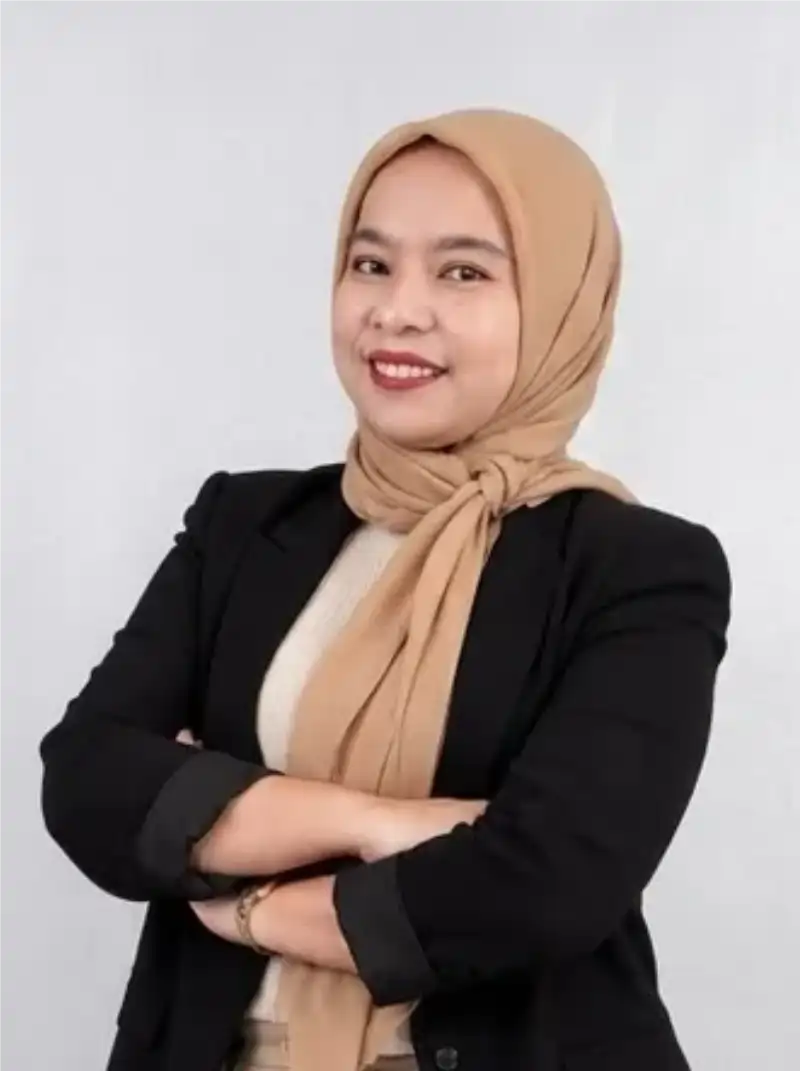
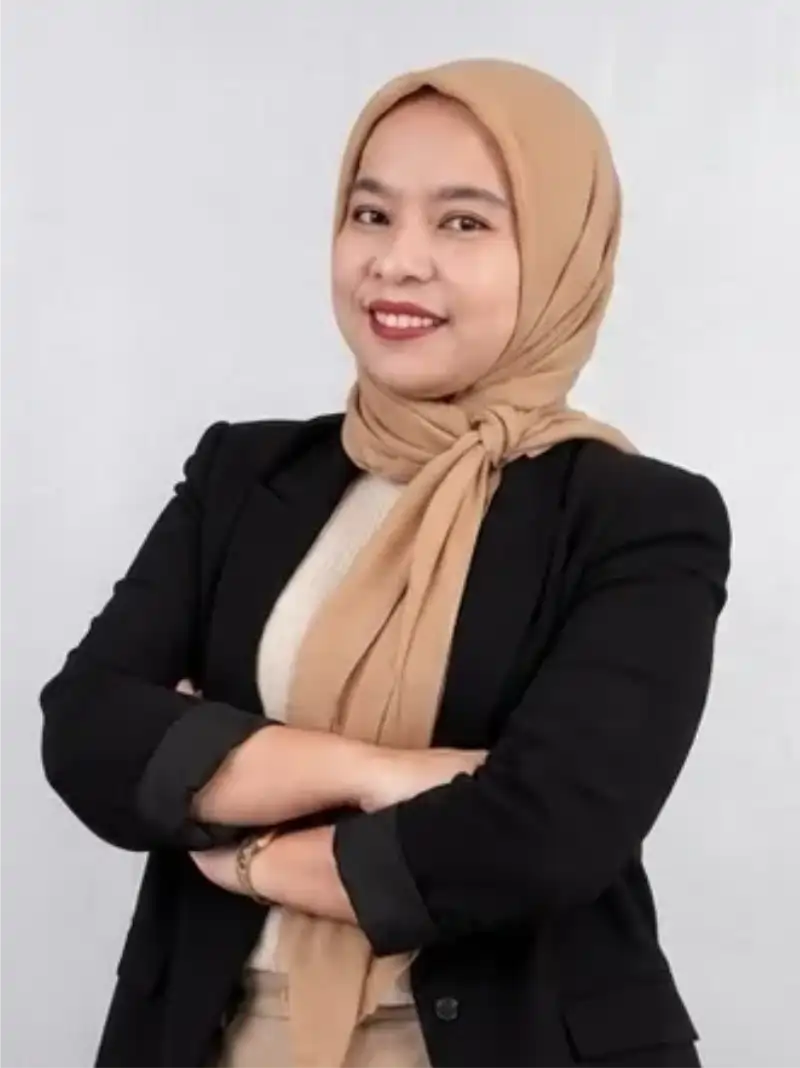
fixed foto founder dan bio

Changed region(s): [[0.0312, 0.0309, 0.9375, 1.0]]

diff --git a/app/globals.css b/app/globals.css
@@ -52,7 +52,9 @@ body {
 .zas-motion-ready [data-reveal] {
   opacity: 0;
   transform: translateY(18px);
-  transition: opacity 620ms ease, transform 620ms cubic-bezier(0.2, 0.7, 0.2, 1);
+  transition:
+    opacity 620ms ease,
+    transform 620ms cubic-bezier(0.2, 0.7, 0.2, 1);
 }
 
 .zas-motion-ready [data-reveal].is-visible {
@@ -85,7 +87,10 @@ body {
   inset: 0 0 auto;
   border-bottom: 1px solid transparent;
   background: transparent;
-  transition: background-color 240ms ease, border-color 240ms ease, box-shadow 240ms ease;
+  transition:
+    background-color 240ms ease,
+    border-color 240ms ease,
+    box-shadow 240ms ease;
 }
 
 .zas-navbar.is-scrolled {
@@ -183,7 +188,10 @@ body {
   border: 1px solid rgb(213 173 120 / 70%);
   border-radius: 3px;
   color: var(--zas-ink);
-  transition: color 180ms ease, background-color 180ms ease, border-color 180ms ease;
+  transition:
+    color 180ms ease,
+    background-color 180ms ease,
+    border-color 180ms ease;
 }
 
 .zas-nav-cta:hover,
@@ -197,7 +205,9 @@ body {
 .zas-mobile-nav a span {
   color: var(--zas-accent);
   font-size: 15px;
-  transition: color 180ms ease, transform 180ms ease;
+  transition:
+    color 180ms ease,
+    transform 180ms ease;
 }
 
 .zas-nav-cta:hover span,
@@ -387,7 +397,10 @@ body {
   font-weight: 700;
   letter-spacing: 0.13em;
   text-transform: uppercase;
-  transition: transform 180ms ease, color 180ms ease, background-color 180ms ease;
+  transition:
+    transform 180ms ease,
+    color 180ms ease,
+    background-color 180ms ease;
 }
 
 .zas-button:hover {
@@ -408,9 +421,7 @@ body {
   isolation: isolate;
   overflow: hidden;
   padding: 92px 32px 98px;
-  background:
-    radial-gradient(ellipse at 76% 55%, rgb(40 67 77 / 54%), transparent 39%),
-    linear-gradient(115deg, #111d25, #192a33 58%, #13212a);
+  background: radial-gradient(ellipse at 76% 55%, rgb(40 67 77 / 54%), transparent 39%), linear-gradient(115deg, #111d25, #192a33 58%, #13212a);
 }
 
 .zas-cta-content {
@@ -485,9 +496,7 @@ body {
   position: absolute;
   z-index: -1;
   inset: 0;
-  background:
-    linear-gradient(90deg, rgb(7 15 22 / 90%) 0%, rgb(7 15 22 / 68%) 44%, rgb(7 15 22 / 22%) 100%),
-    linear-gradient(0deg, rgb(7 15 22 / 64%) 0%, transparent 43%);
+  background: linear-gradient(90deg, rgb(7 15 22 / 90%) 0%, rgb(7 15 22 / 68%) 44%, rgb(7 15 22 / 22%) 100%), linear-gradient(0deg, rgb(7 15 22 / 64%) 0%, transparent 43%);
 }
 
 .zas-home-hero-content {
@@ -883,9 +892,7 @@ body {
   position: absolute;
   z-index: -1;
   inset: 0;
-  background:
-    linear-gradient(90deg, rgb(8 16 23 / 86%), rgb(8 16 23 / 38%) 80%),
-    linear-gradient(0deg, rgb(8 16 23 / 46%), transparent 55%);
+  background: linear-gradient(90deg, rgb(8 16 23 / 86%), rgb(8 16 23 / 38%) 80%), linear-gradient(0deg, rgb(8 16 23 / 46%), transparent 55%);
 }
 
 .zas-inner-hero-content {
@@ -1234,7 +1241,9 @@ body {
 .zas-feature-card {
   min-width: 0;
   background: #1a2830;
-  transition: transform 220ms ease, box-shadow 220ms ease;
+  transition:
+    transform 220ms ease,
+    box-shadow 220ms ease;
 }
 
 .zas-feature-card:hover {
@@ -1290,7 +1299,9 @@ body {
   right: 18px;
   border-radius: 50%;
   font-size: 14px;
-  transition: color 180ms ease, background-color 180ms ease;
+  transition:
+    color 180ms ease,
+    background-color 180ms ease;
 }
 
 .zas-feature-card:hover .zas-feature-card-arrow {
@@ -1346,9 +1357,7 @@ body {
   margin: 92px auto 18px;
   border: 1px solid rgb(16 24 32 / 14%);
   border-radius: 50%;
-  background:
-    radial-gradient(circle, transparent 45%, rgb(16 24 32 / 4%) 45.2%, transparent 45.5%),
-    repeating-radial-gradient(circle, transparent 0, transparent 86px, rgb(16 24 32 / 8%) 87px, transparent 88px);
+  background: radial-gradient(circle, transparent 45%, rgb(16 24 32 / 4%) 45.2%, transparent 45.5%), repeating-radial-gradient(circle, transparent 0, transparent 86px, rgb(16 24 32 / 8%) 87px, transparent 88px);
 }
 
 .zas-market-system::before,
@@ -1377,7 +1386,9 @@ body {
   border: 1px solid #a77c4f;
   border-radius: 50%;
   background: #f0eee8;
-  box-shadow: 0 0 0 12px #f0eee8, 0 0 0 13px rgb(167 124 79 / 30%);
+  box-shadow:
+    0 0 0 12px #f0eee8,
+    0 0 0 13px rgb(167 124 79 / 30%);
   color: var(--zas-night);
 }
 
@@ -1604,7 +1615,10 @@ body {
     opacity: 0;
     transform: translateY(-8px);
     pointer-events: none;
-    transition: opacity 180ms ease, transform 180ms ease, padding 180ms ease;
+    transition:
+      opacity 180ms ease,
+      transform 180ms ease,
+      padding 180ms ease;
   }
 
   .zas-mobile-nav.is-open {
@@ -1674,9 +1688,7 @@ body {
   }
 
   .zas-home-hero-shade {
-    background:
-      linear-gradient(90deg, rgb(7 15 22 / 84%), rgb(7 15 22 / 42%)),
-      linear-gradient(0deg, rgb(7 15 22 / 70%), transparent 58%);
+    background: linear-gradient(90deg, rgb(7 15 22 / 84%), rgb(7 15 22 / 42%)), linear-gradient(0deg, rgb(7 15 22 / 70%), transparent 58%);
   }
 
   .zas-home-hero-content {
@@ -2052,7 +2064,9 @@ body {
   min-height: 80px;
   gap: 30px;
   margin: 20px auto 0;
-  transition: min-height 200ms ease, margin 200ms ease;
+  transition:
+    min-height 200ms ease,
+    margin 200ms ease;
 }
 
 .home-design .zas-navbar.is-scrolled .zas-navbar-inner {
@@ -2193,7 +2207,9 @@ body {
   letter-spacing: 0.2px;
   line-height: 1.4;
   text-align: center;
-  transition: background-color 180ms ease, transform 180ms ease;
+  transition:
+    background-color 180ms ease,
+    transform 180ms ease;
 }
 
 .home-design-button:hover {
@@ -2429,7 +2445,7 @@ body {
 }
 
 .home-design-founder-card img {
-  object-position: center 32%;
+  object-position: center 10%;
   transition: transform 300ms ease;
 }
 
@@ -2966,9 +2982,7 @@ body {
   position: absolute;
   z-index: -1;
   inset: 0;
-  background:
-    linear-gradient(127deg, rgb(0 0 0 / 58%) 36%, rgb(35 35 35 / 48%) 82%),
-    linear-gradient(0deg, rgb(0 0 0 / 44%), transparent 62%);
+  background: linear-gradient(127deg, rgb(0 0 0 / 58%) 36%, rgb(35 35 35 / 48%) 82%), linear-gradient(0deg, rgb(0 0 0 / 44%), transparent 62%);
 }
 
 .about-design-hero-content {
@@ -3173,18 +3187,20 @@ body {
 .about-design-founders-list {
   display: grid;
   width: min(1062px, 100%);
-  gap: 20px;
+  gap: 150px;
   margin: 0 auto;
 }
 
 .about-design .zas-founder-profile {
   grid-template-columns: minmax(0, 338px) minmax(0, 1fr);
   align-items: center;
-  gap: 51px;
+  column-gap: 51px;
+  row-gap: 0;
 }
 
 .about-design .zas-founder-profile.is-reversed {
   grid-template-columns: minmax(0, 1fr) minmax(0, 338px);
+  column-gap: 51px;
 }
 
 .about-design .zas-founder-profile.is-reversed .zas-founder-profile-image {
@@ -3220,6 +3236,10 @@ body {
   padding: 0;
 }
 
+.about-design .zas-founder-profile:not(.is-reversed) .zas-founder-profile-copy {
+  text-align: right;
+}
+
 .about-design .zas-founder-bio {
   margin: 0;
   color: var(--about-ink);
@@ -3228,6 +3248,12 @@ body {
   letter-spacing: 0.2px;
   line-height: 1.55;
   text-align: justify;
+}
+
+.about-design .zas-founder-profile:not(.is-reversed) .zas-founder-bio {
+  width: min(100%, 470px);
+  margin-left: auto;
+  text-align: right;
 }
 
 .about-design .zas-founder-signature h3 {
@@ -3277,9 +3303,10 @@ body {
     gap: 36px;
   }
 
-  .about-design .zas-founder-profile {
-    grid-template-columns: minmax(0, 1fr) minmax(0, 0.9fr);
-    gap: 32px;
+  .about-design .zas-founder-profile,
+  .about-design .zas-founder-profile.is-reversed {
+    grid-template-columns: repeat(2, minmax(0, 1fr));
+    column-gap: 32px;
   }
 
   .about-design .zas-founder-profile-copy {
@@ -3302,9 +3329,7 @@ body {
   }
 
   .about-design-hero-shade {
-    background:
-      linear-gradient(90deg, rgb(0 0 0 / 67%), rgb(0 0 0 / 30%) 100%),
-      linear-gradient(0deg, rgb(0 0 0 / 55%), transparent 65%);
+    background: linear-gradient(90deg, rgb(0 0 0 / 67%), rgb(0 0 0 / 30%) 100%), linear-gradient(0deg, rgb(0 0 0 / 55%), transparent 65%);
   }
 
   .about-design-hero-content {

diff --git a/data/home-page.ts b/data/home-page.ts
@@ -9,8 +9,7 @@ export const homeNavigation = [
 export const homePageContent = {
   hero: {
     title: "Zamzameena Ainsa Synergy",
-    quote:
-      "“ZAS tidak sekedar mendistribusikan produk, melainkan membangun infrastruktur kecerdasan pasar tempat seluruh entitas usaha tumbuh dan menciptakan nilai tambah secara berkelanjutan.”",
+    quote: "“ZAS tidak sekedar mendistribusikan produk, melainkan membangun infrastruktur kecerdasan pasar tempat seluruh entitas usaha tumbuh dan menciptakan nilai tambah secara berkelanjutan.”",
     image: "/images/figma/home-hero.webp",
     imageAlt: "Pemandangan udara gedung-gedung kota Jakarta saat matahari terbenam",
     buttonLabel: "Business Model",
@@ -83,7 +82,7 @@ export const homePageContent = {
     people: [
       {
         name: "Founder 1",
-        image: "/images/figma/founder-01.webp",
+        image: "/images/figma/founder-001.webp",
         imageAlt: "Potret pendiri Zamzameena pertama",
       },
       {
